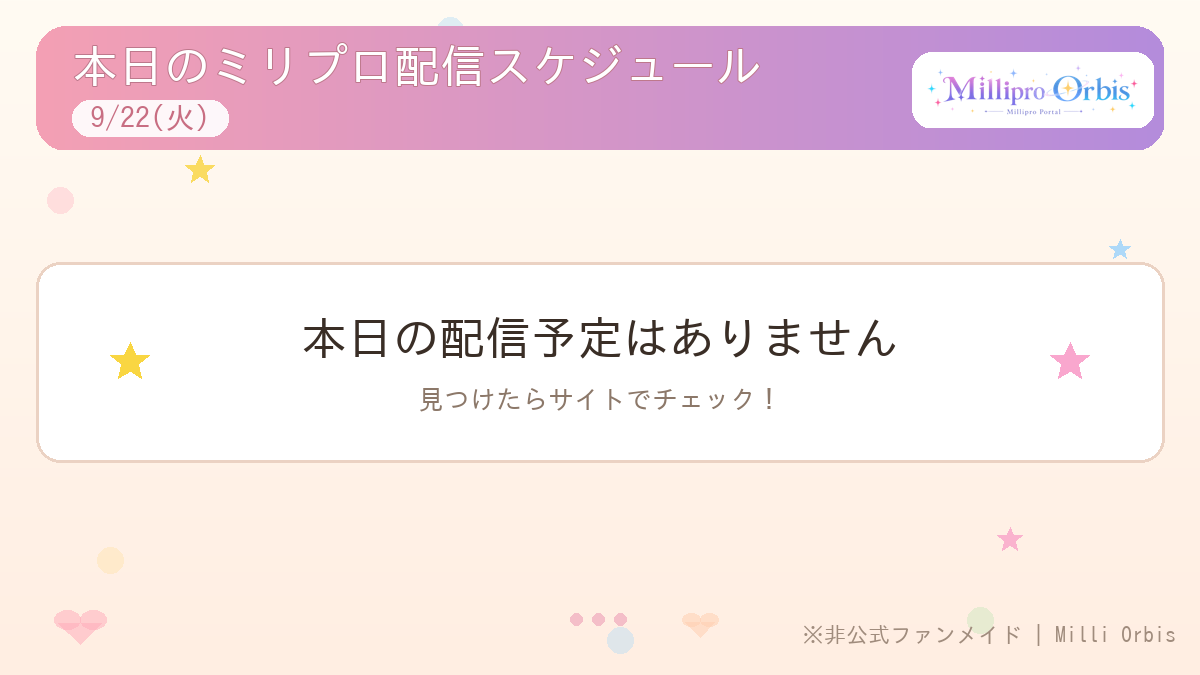
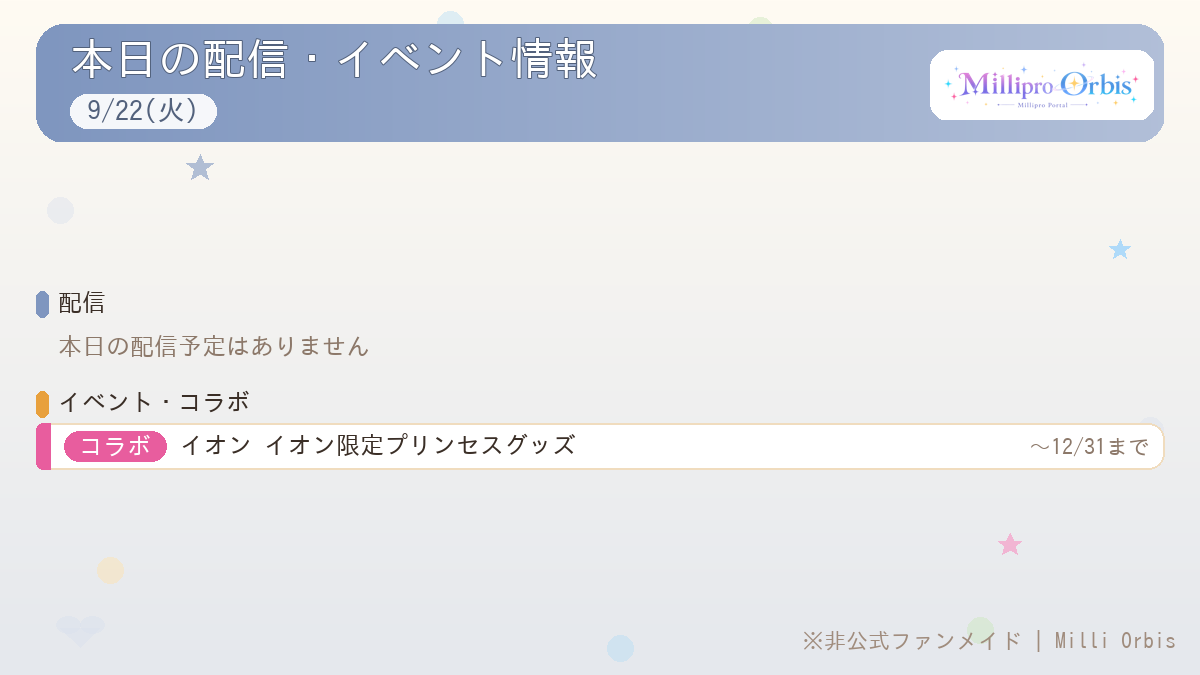
feat: スケジュール画像に日替わりメンカラー+イベント欄、タイトル変更

diff --git a/tools/gen-schedule-image.py b/tools/gen-schedule-image.py
@@ -1,8 +1,10 @@
 #!/usr/bin/env python3
 # -*- coding: utf-8 -*-
-"""gen-schedule-image.py — 本日の配信スケジュール画像(1200x675)を生成する
-data/youtube.json の streams から当日(JST)分を抽出し、
-images/x-schedule.png に書き出す。X半自動投稿(iPhoneショートカット)用。
+"""gen-schedule-image.py — 本日の配信・イベント情報画像(1200x675)を生成する
+data/youtube.json の streams から当日(JST)分、data/collabs.json から
+開催中のコラボを抽出し、images/x-schedule.png に書き出す。
+X半自動投稿(iPhoneショートカット)用。テーマカラーは日替わりで
+ランダムなメンバーのメンカラーになる(日付シードで決定的)。
 
 使い方:
   python3 tools/gen-schedule-image.py [--date YYYY-MM-DD] [--out images/x-schedule.png]
@@ -11,6 +13,7 @@ import argparse
 import datetime
 import json
 import math
+import random
 import re
 import sys
 import urllib.parse
@@ -25,7 +28,6 @@ W, H = 1200, 675
 INK = (58, 46, 38)
 MUTED = (140, 120, 105)
 CARD = (255, 255, 255)
-ACCENT = (117, 177, 192)  # Milli Orbis テーマカラー
 WATERMARK = (160, 140, 125)
 LIVE_RED = (225, 70, 80)
 
@@ -54,6 +56,20 @@ def hex_to_rgb(h):
     return tuple(int(h[i : i + 2], 16) for i in (0, 2, 4))
 
 
+def lighten(rgb, amt=0.55):
+    return tuple(int(c + (255 - c) * amt) for c in rgb)
+
+
+def darken(rgb, amt=0.35):
+    return tuple(int(c * (1 - amt)) for c in rgb)
+
+
+def pick_theme(date, members):
+    ids = [mid for mid in members if members[mid].get("color")]
+    mid = random.Random(date.isoformat()).choice(sorted(ids))
+    return members[mid]
+
+
 def today_streams(date):
     data = json.loads((ROOT / "data" / "youtube.json").read_text(encoding="utf-8"))
     jst = datetime.timezone(datetime.timedelta(hours=9))
@@ -79,6 +95,24 @@ def today_streams(date):
             }
         )
     out.sort(key=lambda s: s["dt"])
+    return out
+
+
+def active_collabs(date):
+    try:
+        data = json.loads((ROOT / "data" / "collabs.json").read_text(encoding="utf-8"))
+    except (OSError, ValueError):
+        return []
+    out = []
+    for c in data:
+        try:
+            s = datetime.date.fromisoformat(c.get("start", ""))
+            e = datetime.date.fromisoformat(c.get("end", ""))
+        except ValueError:
+            continue
+        if s <= date <= e:
+            out.append(c)
+    out.sort(key=lambda c: c.get("end", ""))
     return out
 
 
@@ -119,7 +153,7 @@ def circle_icon(path, size, ring):
     im = im.resize((size, size), Image.LANCZOS)
     mask = Image.new("L", (size, size), 0)
     ImageDraw.Draw(mask).ellipse([0, 0, size, size], fill=255)
-    pad = 5
+    pad = 4
     out = Image.new("RGBA", (size + pad * 2, size + pad * 2), (0, 0, 0, 0))
     d = ImageDraw.Draw(out)
     d.ellipse([0, 0, size + pad * 2, size + pad * 2], fill=ring)
@@ -127,140 +161,198 @@ def circle_icon(path, size, ring):
     return out
 
 
-def render(date, streams, members, out_path):
+def section_label(d, y, text, accent, f_sec):
+    d.rounded_rectangle([36, y, 48, y + 26], radius=6, fill=accent)
+    d.text((58, y - 2), text, font=f_sec, fill=INK)
+
+
+def render(date, streams, collabs, members, theme, out_path):
+    tcol = hex_to_rgb(theme.get("color", "#75b1c0"))
+    tlight = lighten(tcol, 0.72)
+    tpale = lighten(tcol, 0.88)
+    tdark = darken(tcol, 0.35)
+
     img = Image.new("RGB", (W, H), (255, 250, 242))
-    # 縦グラデーション
     grad = Image.new("RGB", (1, H))
-    top = (255, 251, 243)
-    bottom = (255, 238, 226)
+    top, bottom = (255, 251, 243), tuple(int(c * 0.96) for c in tpale)
     for yy in range(H):
         t = yy / H
         grad.putpixel((0, yy), tuple(int(top[i] + (bottom[i] - top[i]) * t) for i in range(3)))
     img.paste(grad.resize((W, H)))
     d = ImageDraw.Draw(img, "RGBA")
-    f_title = ImageFont.truetype(FONT_PATH, 46)
-    f_date = ImageFont.truetype(FONT_PATH, 30)
-    f_time = ImageFont.truetype(FONT_PATH, 28)
-    f_name = ImageFont.truetype(FONT_PATH, 30)
-    f_body = ImageFont.truetype(FONT_PATH, 26)
+    f_title = ImageFont.truetype(FONT_PATH, 44)
+    f_date = ImageFont.truetype(FONT_PATH, 28)
+    f_sec = ImageFont.truetype(FONT_PATH, 24)
+    f_time = ImageFont.truetype(FONT_PATH, 26)
+    f_name = ImageFont.truetype(FONT_PATH, 28)
+    f_body = ImageFont.truetype(FONT_PATH, 24)
     f_small = ImageFont.truetype(FONT_PATH, 22)
 
-    # --- 背景コンフェッティ ---
-    pastel = [(255, 190, 200, 110), (255, 225, 170, 110), (180, 220, 245, 110),
+    # --- 背景コンフェッティ(テーマ色混じり) ---
+    pastel = [tlight + (110,), (255, 225, 170, 110), (180, 220, 245, 110),
               (200, 230, 185, 110), (220, 200, 240, 110)]
-    dots = [(60, 200), (110, 560), (450, 30), (760, 40), (1080, 120), (1150, 420),
-            (90, 430), (620, 640), (980, 620)]
+    dots = [(60, 210), (110, 570), (450, 24), (760, 30), (1085, 110), (1150, 430),
+            (90, 440), (620, 648), (980, 630)]
     for i, (x, y) in enumerate(dots):
         c = pastel[i % len(pastel)]
         d.ellipse([x - 13, y - 13, x + 13, y + 13], fill=c)
-    star(d, 200, 170, 15, (247, 203, 14, 160))
-    star(d, 1010, 540, 13, (247, 143, 192, 160))
-    star(d, 1120, 250, 11, (126, 200, 255, 160))
-    star(d, 540, 90, 10, (247, 203, 14, 130))
-    heart(d, 80, 620, 26, (255, 170, 185, 130))
-    heart(d, 1130, 80, 22, (255, 170, 185, 130))
-    heart(d, 700, 620, 18, (255, 205, 175, 130))
+    star(d, 200, 168, 14, tcol + (150,))
+    star(d, 1010, 545, 12, (247, 143, 192, 150))
+    star(d, 1120, 250, 11, (126, 200, 255, 150))
+    heart(d, 80, 625, 24, tlight + (140,))
+    heart(d, 1130, 80, 20, (255, 170, 185, 130))
 
-    # --- ヘッダー(グラデ帯) ---
-    hb = Image.new("RGB", (W - 72, 124), (244, 160, 180))
+    # --- ヘッダー(日替わりテーマ帯) ---
+    hb = Image.new("RGB", (W - 72, 118), tcol)
     for xx in range(W - 72):
         t = xx / (W - 72)
-        c = (int(244 + (180 - 244) * t), int(160 + (140 - 160) * t), int(180 + (220 - 180) * t))
-        for yy in range(124):
+        c = tuple(int(tcol[i] + (tlight[i] - tcol[i]) * t * 0.55) for i in range(3))
+        for yy in range(118):
             hb.putpixel((xx, yy), c)
-    mask = Image.new("L", (W - 72, 124), 0)
-    ImageDraw.Draw(mask).rounded_rectangle([0, 0, W - 72, 124], radius=30, fill=255)
-    img.paste(hb, (36, 26), mask)
+    mask = Image.new("L", (W - 72, 118), 0)
+    ImageDraw.Draw(mask).rounded_rectangle([0, 0, W - 72, 118], radius=28, fill=255)
+    img.paste(hb, (36, 24), mask)
     d = ImageDraw.Draw(img, "RGBA")
-    d.text((72, 42), "本日のミリプロ配信スケジュール", font=f_title, fill=(255, 255, 255),
-           stroke_width=1, stroke_fill=(190, 120, 140))
+    d.text((70, 36), "本日の配信・イベント情報", font=f_title, fill=(255, 255, 255),
+           stroke_width=1, stroke_fill=tdark)
     datestr = f"{date.month}/{date.day}({WEEK_JP[date.weekday()]})"
     tw = d.textlength(datestr, font=f_date)
-    d.rounded_rectangle([72, 100, 72 + tw + 36, 136], radius=18, fill=(255, 255, 255, 235))
-    d.text((90, 102), datestr, font=f_date, fill=(200, 110, 130))
-    # ロゴ
+    d.rounded_rectangle([70, 94, 70 + tw + 34, 128], radius=17, fill=(255, 255, 255, 235))
+    d.text((87, 96), datestr, font=f_date, fill=tdark)
     logo_path = ROOT / "images" / "rogo" / "Milli Orbis-rogo.png"
     if logo_path.exists():
         logo = Image.open(logo_path).convert("RGBA")
         lw, lh = logo.size
-        scale = 52 / lh
-        logo = logo.resize((int(lw * scale), 52))
-        white = Image.new("RGBA", (logo.width + 28, 76), (255, 255, 255, 235))
+        scale = 48 / lh
+        logo = logo.resize((int(lw * scale), 48))
+        white = Image.new("RGBA", (logo.width + 26, 70), (255, 255, 255, 235))
         wmask = Image.new("L", white.size, 0)
-        ImageDraw.Draw(wmask).rounded_rectangle([0, 0, *white.size], radius=20, fill=255)
-        img.paste(white, (W - 36 - white.width - 10, 52), wmask)
-        img.paste(logo, (W - 36 - white.width - 10 + 14, 64), logo)
+        ImageDraw.Draw(wmask).rounded_rectangle([0, 0, *white.size], radius=18, fill=255)
+        img.paste(white, (W - 36 - white.width - 10, 50), wmask)
+        img.paste(logo, (W - 36 - white.width - 10 + 13, 61), logo)
 
-    # --- 配信カード ---
-    max_rows = 6
-    shown = streams[:max_rows]
-    if not shown:
-        y = 262
-        d.rounded_rectangle([36, y, W - 36, y + 200], radius=24, fill=CARD,
-                            outline=(235, 210, 195), width=3)
-        msg = "本日の配信予定はありません"
-        sub = "見つけたらサイトでチェック！"
-        tw = d.textlength(msg, font=f_title)
-        d.text(((W - tw) / 2, y + 52), msg, font=f_title, fill=INK)
-        sw = d.textlength(sub, font=f_body)
-        d.text(((W - sw) / 2, y + 124), sub, font=f_body, fill=MUTED)
-        star(d, 130, y + 100, 20, (247, 203, 14, 200))
-        star(d, W - 130, y + 100, 20, (247, 143, 192, 200))
+    y = 158
+    y_max = H - 66
+
+    # --- 表示件数の決定(上限内に収める) ---
+    if collabs:
+        n_s, n_c = 4, 2
     else:
-        block_h = len(shown) * 76 - 12
-        y = 168 + max(0, (H - 110 - 168 - block_h) // 2)
-        for st in shown:
+        n_s, n_c = 5, 3
+    if not streams:
+        n_c = 3
+    shown_s = streams[:n_s]
+    shown_c = collabs[:n_c]
+    rest_s = len(streams) - len(shown_s)
+    rest_c = len(collabs) - len(shown_c)
+
+    # --- コンテンツ全体を垂直中央寄せ ---
+    total_h = 34 + max(len(shown_s), 1) * 66
+    if collabs:
+        total_h += 32 + len(shown_c) * 52
+    if rest_s > 0 or rest_c > 0:
+        total_h += 44
+    y = 158 + max(0, (y_max - 158 - total_h) // 2)
+
+    # --- 配信セクション ---
+    section_label(d, y, "配信", tcol, f_sec)
+    y += 34
+    if not shown_s:
+        d.text((58, y + 8), "本日の配信予定はありません", font=f_body, fill=MUTED)
+        y += 66
+    else:
+        for st in shown_s:
             m = members.get(st["memberId"], {})
             color = hex_to_rgb(m.get("color", "#75b1c0"))
             name = m.get("name") or st["member"] or st["memberId"]
-            d.rounded_rectangle([36, y, W - 36, y + 64], radius=20, fill=CARD,
+            d.rounded_rectangle([36, y, W - 36, y + 58], radius=18, fill=CARD,
                                 outline=(235, 210, 195), width=2)
-            # 丸アイコン
             icon_file = (ROOT / m.get("icon", "")) if m.get("icon") else None
             if icon_file and icon_file.exists():
                 try:
-                    badge = circle_icon(icon_file, 46, color)
-                    img.paste(badge, (50, y + 4), badge)
+                    badge = circle_icon(icon_file, 40, color)
+                    img.paste(badge, (48, y + 5), badge)
                 except OSError:
-                    d.ellipse([52, y + 9, 104, y + 61], fill=color)
+                    d.ellipse([50, y + 9, 98, y + 57], fill=color)
             else:
-                d.ellipse([52, y + 9, 104, y + 61], fill=color)
-            # 時刻ピル
+                d.ellipse([50, y + 9, 98, y + 57], fill=color)
             pill_c = LIVE_RED if st["live"] else color
             label = ("LIVE " if st["live"] else "") + st["time"]
-            pw = max(118, int(d.textlength(label, font=f_time)) + 36)
-            d.rounded_rectangle([122, y + 13, 122 + pw, y + 51], radius=19, fill=pill_c)
-            tx = 122 + (pw - d.textlength(label, font=f_time)) / 2
-            d.text((tx, y + 15), label, font=f_time, fill=(255, 255, 255))
-            # 名前・タイトル
-            nx = 122 + pw + 16
-            d.text((nx, y + 14), truncate(d, name, f_name, 185), font=f_name, fill=INK)
-            d.text((nx + 200, y + 17), truncate(d, st["title"], f_body, W - 36 - (nx + 200) - 20),
+            pw = max(108, int(d.textlength(label, font=f_time)) + 32)
+            d.rounded_rectangle([112, y + 11, 112 + pw, y + 47], radius=18, fill=pill_c)
+            tx = 112 + (pw - d.textlength(label, font=f_time)) / 2
+            d.text((tx, y + 13), label, font=f_time, fill=(255, 255, 255))
+            nx = 112 + pw + 14
+            d.text((nx, y + 12), truncate(d, name, f_name, 175), font=f_name, fill=INK)
+            d.text((nx + 190, y + 15), truncate(d, st["title"], f_body, W - 36 - (nx + 190) - 18),
                    font=f_body, fill=(100, 85, 72))
-            y += 76
+            y += 66
 
-        # --- 残り件数 ---
-        rest = len(streams) - len(shown)
-        if rest > 0:
-            more = f"他 {rest} 件の配信はサイトでチェック！"
-            mw = d.textlength(more, font=f_body)
-            pill = [W / 2 - mw / 2 - 22, y + 4, W / 2 + mw / 2 + 22, y + 40]
-            d.rounded_rectangle(pill, radius=18, fill=(255, 255, 255, 220),
-                                outline=ACCENT, width=2)
-            d.text(((W - mw) / 2, y + 8), more, font=f_body, fill=(70, 130, 145))
+    # --- イベント・コラボセクション ---
+    if collabs:
+        section_label(d, y, "イベント・コラボ", (232, 160, 60), f_sec)
+        y += 32
+        for c in shown_c:
+            ccol = hex_to_rgb(c.get("color", "#E8A03C"))
+            d.rounded_rectangle([36, y, W - 36, y + 46], radius=16, fill=CARD,
+                                outline=(240, 220, 190), width=2)
+            d.rounded_rectangle([36, y, 50, y + 46], radius=8, fill=ccol)
+            d.rectangle([43, y, 50, y + 46], fill=ccol)
+            pill = "コラボ"
+            pw2 = int(d.textlength(pill, font=f_body)) + 30
+            d.rounded_rectangle([64, y + 8, 64 + pw2, y + 38], radius=15, fill=ccol)
+            d.text((64 + 15, y + 10), pill, font=f_body, fill=(255, 255, 255))
+            tx0 = 64 + pw2 + 14
+            try:
+                e = datetime.date.fromisoformat(c["end"])
+                period = f"〜{e.month}/{e.day}まで"
+            except (ValueError, KeyError):
+                period = ""
+            pw3 = d.textlength(period, font=f_small)
+            title = truncate(d, f"{c.get('shop','')} {c.get('title','')}".strip(), f_body,
+                             W - 36 - tx0 - pw3 - 40)
+            d.text((tx0, y + 9), title, font=f_body, fill=INK)
+            d.text((W - 36 - pw3 - 14, y + 12), period, font=f_small, fill=MUTED)
+            y += 52
+
+    # --- 残り件数 ---
+    notes = []
+    if rest_s > 0:
+        notes.append(f"配信他{rest_s}件")
+    if rest_c > 0:
+        notes.append(f"イベント他{rest_c}件")
+    if notes:
+        more = "・".join(notes) + "はサイトでチェック！"
+        mw = d.textlength(more, font=f_body)
+        d.rounded_rectangle([W / 2 - mw / 2 - 22, y + 2, W / 2 + mw / 2 + 22, y + 38],
+                            radius=18, fill=(255, 255, 255, 220),
+                            outline=ACCENT, width=2)
+        d.text(((W - mw) / 2, y + 6), more, font=f_body, fill=(70, 130, 145))
+
+    # --- 配信ゼロ & イベントゼロ ---
+    if not shown_s and not collabs:
+        yy = 250
+        d.rounded_rectangle([36, yy, W - 36, yy + 170], radius=24, fill=CARD,
+                            outline=(235, 210, 195), width=3)
+        msg = "本日の配信・イベント情報はありません"
+        f_msg = ImageFont.truetype(FONT_PATH, 38)
+        tw = d.textlength(msg, font=f_msg)
+        d.text(((W - tw) / 2, yy + 48), msg, font=f_msg, fill=INK)
+        sub = "見つけたらサイトでチェック！"
+        sw = d.textlength(sub, font=f_body)
+        d.text(((W - sw) / 2, yy + 108), sub, font=f_body, fill=MUTED)
+        star(d, 130, yy + 85, 20, (247, 203, 14, 200))
+        star(d, W - 130, yy + 85, 20, (247, 143, 192, 200))
 
     # --- フッター ---
-    for i in range(3):
-        d.ellipse([W / 2 - 30 + i * 22, H - 62, W / 2 - 18 + i * 22, H - 50],
-                  fill=(244, 190, 200))
     wm = "※非公式ファンメイド | Milli Orbis"
     ww = d.textlength(wm, font=f_small)
-    d.text((W - ww - 24, H - 52), wm, font=f_small, fill=WATERMARK)
+    d.text((W - ww - 24, H - 46), wm, font=f_small, fill=WATERMARK)
 
     out = Path(out_path)
     out.parent.mkdir(parents=True, exist_ok=True)
     img.save(out)
-    print(f"saved: {out} ({len(streams)} streams)")
+    print(f"saved: {out} ({len(shown_s)} streams, theme={theme.get('name')})")
 
 
 def main():
@@ -275,7 +367,9 @@ def main():
         date = datetime.datetime.now(jst).date()
     members = load_members()
     streams = today_streams(date)
-    render(date, streams, members, ROOT / args.out)
+    collabs = active_collabs(date)
+    theme = pick_theme(date, members)
+    render(date, streams, collabs, members, theme, ROOT / args.out)
 
 
 if __name__ == "__main__":
